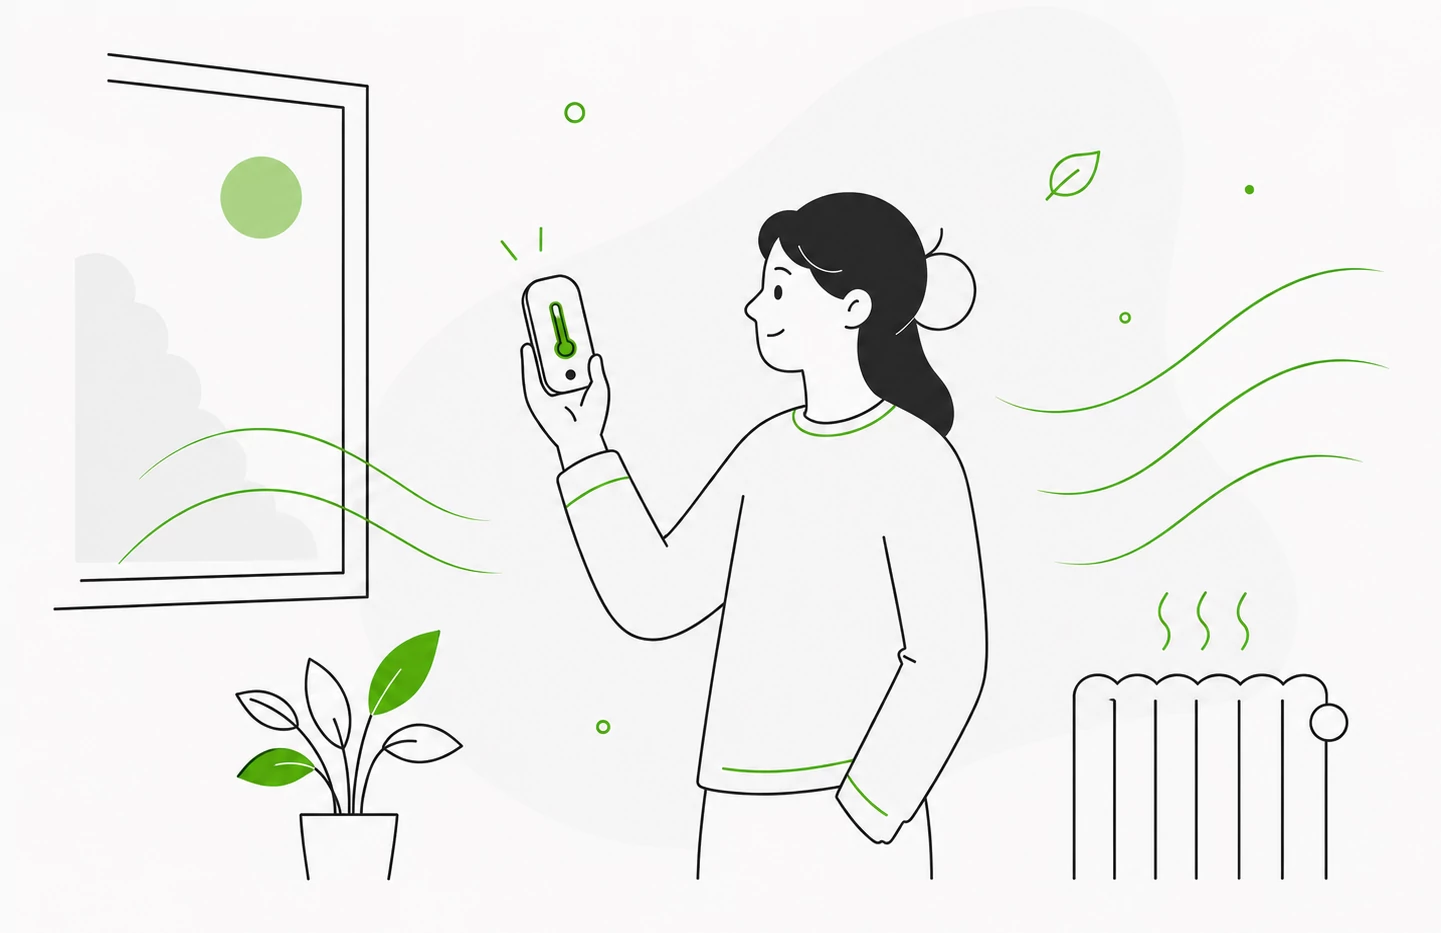
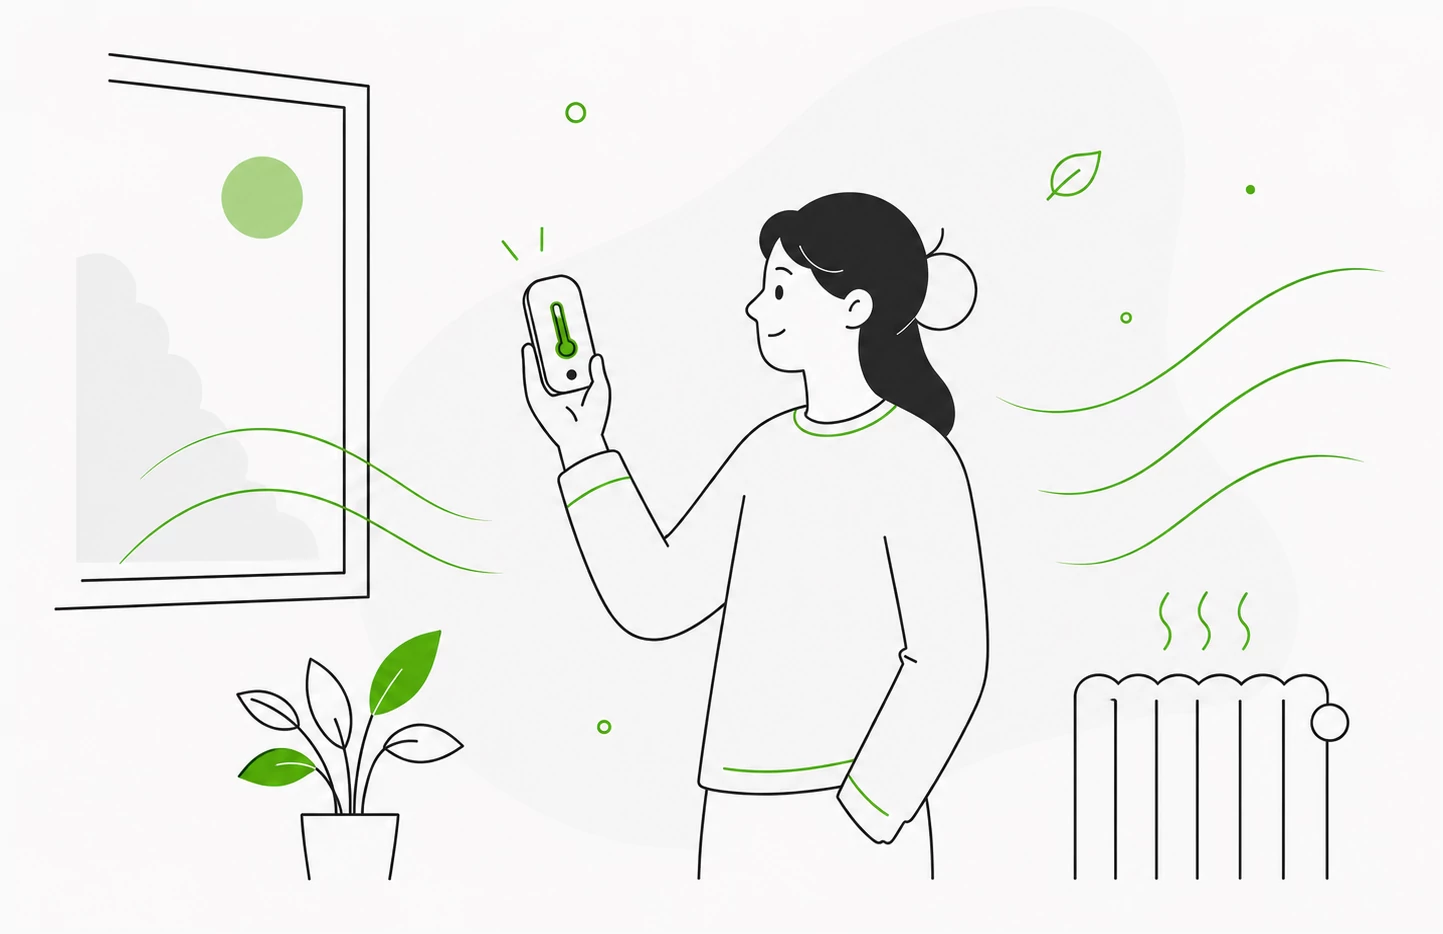
Hero-Bilder: Verzerrung beheben (object-fit: contain)
Raumklima-Bild wirkte leicht gestreckt: Standard object-fit:fill streckt, wenn
die Anzeige-Box minimal vom Bild abweicht. Fix:
- object-fit: contain auf allen Hero-Medien -> Seitenverhaeltnis bleibt immer
  erhalten, nie verzerrt
- Raumklima-Paar auf exakt identische Maße (1443x934) gepolt

Claude-Session: https://claude.ai/code/session_01GpjN2F9zxBAte9ZpCvo8HK

diff --git a/src/index.css b/src/index.css
@@ -330,6 +330,7 @@ body {
  *       hue-rotate erhalten), dann screen blendet das Schwarz weg. */
 .hero-video {
   border-radius: 1.5rem;
+  object-fit: contain;
   mix-blend-mode: multiply;
 }
 
@@ -344,6 +345,8 @@ body {
  * leichtem Schweben lässt das Standbild lebendig wirken. */
 .hero-illustration {
   border-radius: 1.5rem;
+  /* Seitenverhältnis immer wahren – nie verzerren. */
+  object-fit: contain;
   transform-origin: 50% 42%;
   animation: hero-kenburns 11s ease-in-out infinite alternate;
   will-change: transform;
@@ -378,6 +381,8 @@ body {
  * Kanten, damit es rahmenlos in den Hintergrund übergeht. */
 .hero-photopair {
   border-radius: 1.5rem;
+  /* Seitenverhältnis immer wahren – nie verzerren. */
+  object-fit: contain;
   transform-origin: 50% 45%;
   animation: hero-kenburns 11s ease-in-out infinite alternate;
   will-change: transform;